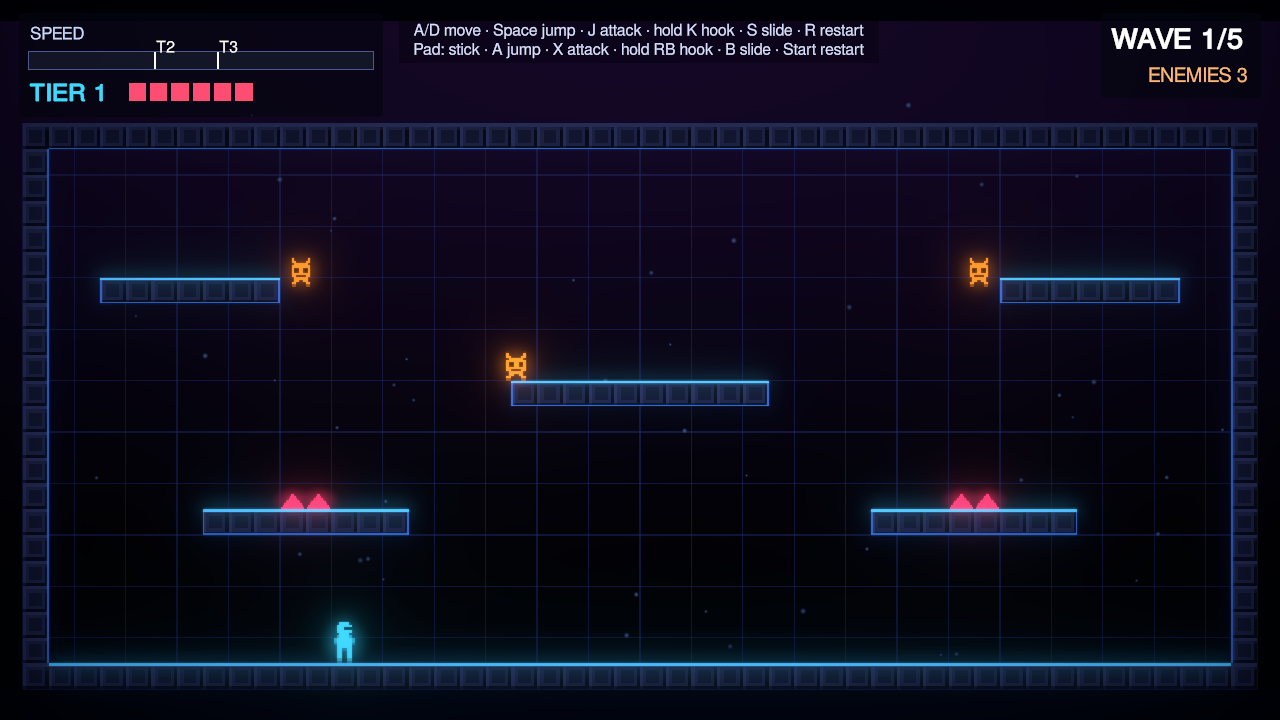
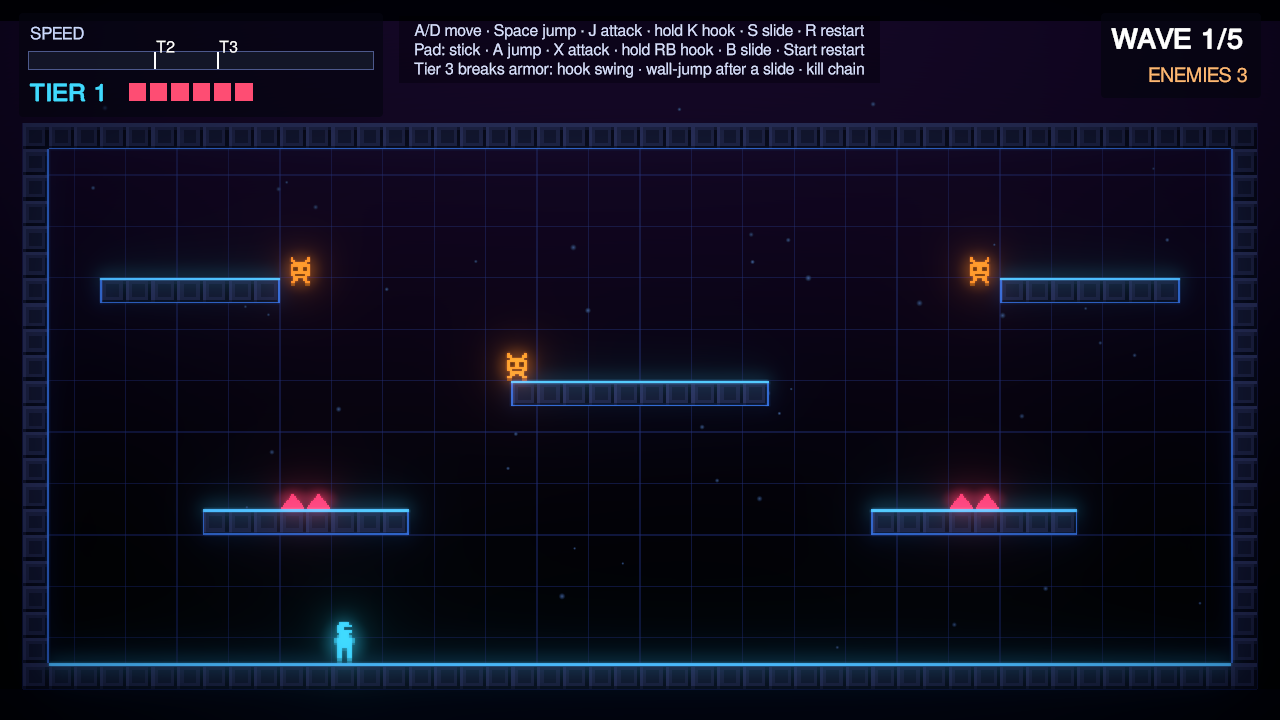
feat(game): show drones, brute charges and kill chains
Drone pixel art with a dive telegraph blink, brute charge shake and flash,
dazed wobble and red armor-down state, crash sparks and shake, drone
debris, a CHAIN xN counter, and a wave-1 hint on how to earn tier 3.
Capture tour adds wave-3 drone and wave-4 charge shots and keeps the
idle player alive while it fast-forwards waves.

Story: production/epics/redline/story-010..012

Changed region(s): [[0.3125, 0.0306, 0.6875, 0.1222], [0.75, 0.3667, 0.7812, 0.3972], [0.2188, 0.3667, 0.25, 0.3972]]

diff --git a/Assets/Scripts/Game/ActorRenderer.cs b/Assets/Scripts/Game/ActorRenderer.cs
@@ -22,6 +22,8 @@ namespace Redline.Game
         private static readonly Color BruteArmored = new Color(0.55f, 0.65f, 0.82f);
         private static readonly Color BruteBreakable = new Color(1f, 0.2f, 0.28f);
         private static readonly Color RopeCore = new Color(0.9f, 0.97f, 1f);
+        private static readonly Color DroneColor = new Color(0.78f, 0.45f, 1f);
+        private static readonly Color WindupColor = new Color(1f, 0.85f, 0.4f);
 
         private readonly Transform _root;
         private readonly SpriteRenderer _player;
@@ -174,29 +176,60 @@ namespace Redline.Game
         private void SyncEnemy(Enemy e, Vector2 feet, int tier, int index)
         {
             var view = _enemies[index];
-            bool grunt = e.Kind == EnemyKind.Grunt;
-            bool breakable = CombatRules.CanDamage(tier, e.MinTier);
-            view.sprite = grunt ? PixelArt.Grunt : PixelArt.Brute;
+            bool brute = e.Kind == EnemyKind.Brute;
+            bool breakable = brute && CombatRules.CanDamage(tier, e.ArmorTier);
+            view.sprite = e.Kind == EnemyKind.Grunt ? PixelArt.Grunt : brute ? PixelArt.Brute : PixelArt.Drone;
             view.flipX = e.Facing < 0;
 
-            Color c = grunt ? GruntColor : (breakable ? BruteBreakable : BruteArmored);
-            if (e.SinceHit < 0.08f) c = Color.white;
+            var c = EnemyColor(e, breakable);
             view.color = c;
 
-            float bob = grunt && e.Grounded ? Mathf.Abs(Mathf.Sin(_time * 12f + index)) * 0.08f : 0f;
+            float bob = e.Kind == EnemyKind.Grunt && e.Grounded ? Mathf.Abs(Mathf.Sin(_time * 12f + index)) * 0.08f : 0f;
             float pop = e.SinceHit < 0.12f ? 1.15f : 1f;
             float k = e.Height / view.sprite.bounds.size.y * pop;
             var t = view.transform;
             t.localScale = new Vector3(k * (1f + bob), k * (1f - bob), 1f);
-            t.localPosition = new Vector3(feet.x, feet.y + e.Height * pop * (1f - bob) * 0.5f, 0f);
+            var offset = EnemyOffset(e, index);
+            t.localPosition = new Vector3(feet.x + offset.x, feet.y + e.Height * pop * (1f - bob) * 0.5f + offset.y, 0f);
+            // A crashed brute wobbles, dazed.
+            t.localRotation = brute && e.Mode == BruteMode.Crashed
+                ? Quaternion.Euler(0f, 0f, Mathf.Sin(_time * 9f) * 10f)
+                : Quaternion.identity;
 
             var glow = _enemyGlows[index];
             var gc = c;
-            gc.a = grunt ? 0.12f : breakable ? 0.3f + 0.15f * Mathf.Sin(_time * 14f) : 0.1f;
+            gc.a = breakable ? 0.3f + 0.15f * Mathf.Sin(_time * 14f) : brute ? 0.1f : 0.14f;
             glow.color = gc;
-            float gs = e.Height * (breakable && !grunt ? 2.4f : 1.8f);
+            float gs = e.Height * (breakable ? 2.4f : 1.8f);
             glow.transform.localPosition = t.localPosition;
             glow.transform.localScale = new Vector3(gs, gs, 1f);
+        }
+
+        /// <summary>Base colour per kind and state, with flashes for hits and telegraphs.</summary>
+        private Color EnemyColor(Enemy e, bool breakable)
+        {
+            if (e.SinceHit < 0.08f) return Color.white;
+            bool blink = Mathf.Repeat(_time * 18f, 2f) < 1f;
+            switch (e.Kind)
+            {
+                case EnemyKind.Grunt:
+                    return GruntColor;
+                case EnemyKind.Drone:
+                    return e.DroneState == DroneMode.Windup && blink ? Color.white : DroneColor;
+                default:
+                    if (e.Mode == BruteMode.Windup) return blink ? WindupColor : BruteArmored;
+                    return breakable ? BruteBreakable : BruteArmored;
+            }
+        }
+
+        /// <summary>Shake while a brute telegraphs a charge; gentle hover sway for drones.</summary>
+        private Vector2 EnemyOffset(Enemy e, int index)
+        {
+            if (e.Kind == EnemyKind.Brute && e.Mode == BruteMode.Windup)
+                return new Vector2(Mathf.Sin(_time * 70f) * 0.07f, 0f);
+            if (e.Kind == EnemyKind.Drone && e.DroneState == DroneMode.Hover)
+                return new Vector2(0f, Mathf.Sin(_time * 4f + index) * 0.12f);
+            return Vector2.zero;
         }
     }
 }

diff --git a/Assets/Scripts/Game/RedlineCapture.cs b/Assets/Scripts/Game/RedlineCapture.cs
@@ -77,6 +77,20 @@ namespace Redline.Game
             yield return new WaitForSecondsRealtime(0.06f);
             yield return Shot("fx-kill.png");
 
+            // 3c. Wave 3: drones hover out of reach. 3d. Wave 4: a brute telegraphs a charge.
+            yield return ClearUntilWave(sim, 3);
+            yield return WaitForFight(sim, 2.5f);
+            yield return Shot("wave3-drones.png");
+            yield return ClearUntilWave(sim, 4);
+            yield return WaitForFight(sim, 0.5f);
+            float wait = 8f;
+            while (wait > 0f && !AnyBruteIn(sim, BruteMode.Windup))
+            {
+                wait -= Time.unscaledDeltaTime;
+                yield return null;
+            }
+            yield return Shot("wave4-charge-telegraph.png");
+
             // 4. Game over.
             sim.Player.Hp = 0;
             yield return new WaitForSecondsRealtime(0.5f);
@@ -87,6 +101,9 @@ namespace Redline.Game
             float guard = 120f;
             while (sim.State != SimState.Victory && guard > 0f)
             {
+                // Several fixed steps can run between frames; keep the idle player alive meanwhile.
+                if (sim.State == SimState.GameOver) sim.Restart();
+                sim.Player.InvulnTimer = 1f;
                 if (sim.State == SimState.Fighting)
                     foreach (var e in sim.Enemies) e.Hp = 0f;
                 guard -= Time.unscaledDeltaTime;
@@ -97,6 +114,26 @@ namespace Redline.Game
 
             Debug.Log("REDLINE_CAPTURE_DONE " + Directory);
             Application.Quit();
+        }
+
+        private static IEnumerator ClearUntilWave(RedlineSim sim, int wave)
+        {
+            float guard = 60f;
+            while (sim.CurrentWave < wave && guard > 0f)
+            {
+                sim.Player.InvulnTimer = 1f;
+                if (sim.State == SimState.Fighting)
+                    foreach (var e in sim.Enemies) e.Hp = 0f;
+                guard -= Time.unscaledDeltaTime;
+                yield return null;
+            }
+        }
+
+        private static bool AnyBruteIn(RedlineSim sim, BruteMode mode)
+        {
+            foreach (var e in sim.Enemies)
+                if (e.Alive && e.Kind == EnemyKind.Brute && e.Mode == mode) return true;
+            return false;
         }
 
         private static IEnumerator WaitForFight(RedlineSim sim, float extraSeconds)

diff --git a/Assets/Scripts/Game/RedlineGame.cs b/Assets/Scripts/Game/RedlineGame.cs
@@ -19,6 +19,8 @@ namespace Redline.Game
         private static readonly Color Background = new Color(0.01f, 0.01f, 0.04f);
         private static readonly Color GruntDebris = new Color(1f, 0.55f, 0.15f);
         private static readonly Color BruteDebris = new Color(1f, 0.2f, 0.28f);
+        private static readonly Color DroneDebris = new Color(0.78f, 0.45f, 1f);
+        private static readonly Color WindupColor = new Color(1f, 0.85f, 0.4f);
         private static readonly Color HurtColor = new Color(1f, 0.25f, 0.4f);
         private static readonly Color ClangColor = new Color(0.7f, 0.8f, 1f);
 
@@ -223,6 +225,8 @@ namespace Redline.Game
                     case SimEventType.HookAttach: _effects.Sparks(at, color, 8, 5f); break;
                     case SimEventType.WaveStart: _effects.Flash(0.08f); break;
                     case SimEventType.Victory: _effects.Flash(0.25f); break;
+                    case SimEventType.BruteWindup: _effects.Sparks(at, WindupColor, 6, 3f); break;
+                    case SimEventType.BruteCrash: OnBruteCrash(at); break;
                 }
             }
         }
@@ -235,12 +239,22 @@ namespace Redline.Game
 
         private void OnKill(Vector2 at, Color color, int tier)
         {
-            bool brute = KilledKindAt(at) == EnemyKind.Brute;
+            var kind = KilledKindAt(at);
+            bool brute = kind == EnemyKind.Brute;
+            var debris = brute ? BruteDebris : kind == EnemyKind.Drone ? DroneDebris : GruntDebris;
             _effects.Sparks(at, color, 10 + 6 * tier, 8f + 4f * tier);
-            _effects.Debris(at, brute ? BruteDebris : GruntDebris, brute ? 16 : 9, 7f + 2f * tier);
+            _effects.Debris(at, debris, brute ? 16 : 9, 7f + 2f * tier);
             _shake = Mathf.Max(_shake, 0.08f * tier + (brute ? 0.2f : 0f));
             _hitStop = Mathf.Max(_hitStop, 0.02f * tier + (brute ? 0.05f : 0f));
             if (tier == 3) _effects.Flash(brute ? 0.22f : 0.1f);
+        }
+
+        private void OnBruteCrash(Vector2 at)
+        {
+            _effects.Sparks(at, WindupColor, 18, 9f);
+            _effects.Dust(new Vector2(at.x, at.y - 1f), 8, 0f);
+            _shake = Mathf.Max(_shake, 0.35f);
+            _hitStop = Mathf.Max(_hitStop, 0.06f);
         }
 
         private void OnClang(Vector2 at)

diff --git a/Assets/Scripts/Game/RedlineHud.cs b/Assets/Scripts/Game/RedlineHud.cs
@@ -14,13 +14,15 @@ namespace Redline.Game
     {
         private const string ControlsText =
             "A/D move · Space jump · J attack · hold K hook · S slide · R restart\n" +
-            "Pad: stick · A jump · X attack · hold RB hook · B slide · Start restart";
+            "Pad: stick · A jump · X attack · hold RB hook · B slide · Start restart\n" +
+            "Tier 3 breaks armor: hook swing · wall-jump after a slide · kill chain";
 
         private RedlineGame _game;
         private PanelSettings _settings;
         private int _shownBannerWave = -1;
         private VisualElement _speedFill;
         private Label _tierLabel;
+        private Label _chainLabel;
         private Label _waveLabel;
         private Label _enemiesLabel;
         private Label _banner;
@@ -29,6 +31,7 @@ namespace Redline.Game
         private VisualElement[] _hpPips;
 
         private int _shownTier = -1;
+        private int _shownChain = -1;
         private int _shownHp = -1;
         private int _shownWave = -1;
         private int _shownEnemies = -1;
@@ -101,6 +104,11 @@ namespace Redline.Game
             hpRow.style.flexDirection = FlexDirection.Row;
             hpRow.style.marginLeft = 24;
             statusRow.Add(hpRow);
+
+            _chainLabel = MakeLabel("", 30, RedlineGame.TierColors[2]);
+            _chainLabel.style.unityFontStyleAndWeight = FontStyle.Bold;
+            _chainLabel.style.marginLeft = 20;
+            statusRow.Add(_chainLabel);
             _hpPips = new VisualElement[cfg.playerMaxHp];
             for (int i = 0; i < _hpPips.Length; i++)
             {
@@ -173,6 +181,13 @@ namespace Redline.Game
                 _speedFill.style.backgroundColor = c;
                 _tierLabel.text = tier == 3 ? "TIER 3  ·  BREAKS ARMOR" : "TIER " + tier;
                 _tierLabel.style.color = c;
+            }
+
+            int chain = p.Chain >= 2 ? p.Chain : 0;
+            if (chain != _shownChain)
+            {
+                _shownChain = chain;
+                _chainLabel.text = chain >= 2 ? "CHAIN ×" + chain : "";
             }
 
             if (p.Hp != _shownHp)

diff --git a/Assets/Scripts/Game/PixelArt.cs b/Assets/Scripts/Game/PixelArt.cs
@@ -21,6 +21,7 @@ namespace Redline.Game
         private static Sprite _playerSlide;
         private static Sprite _grunt;
         private static Sprite _brute;
+        private static Sprite _drone;
         private static Sprite _tile;
         private static Sprite _slash;
         private static Sprite _glow;
@@ -30,7 +31,7 @@ namespace Redline.Game
         [RuntimeInitializeOnLoadMethod(RuntimeInitializeLoadType.SubsystemRegistration)]
         private static void ResetStatics()
         {
-            _player = _playerSlide = _grunt = _brute = _tile = _slash = _glow = _gradient = null;
+            _player = _playerSlide = _grunt = _brute = _drone = _tile = _slash = _glow = _gradient = null;
         }
 
         /// <summary>Standing runner, facing right (visor on the right).</summary>
@@ -107,6 +108,19 @@ namespace Redline.Game
             ".MMWW...WWMM.",
             ".MMMM...MMMM.",
             "............."
+        }));
+
+        /// <summary>Flying drone: wings, a single dark eye band, two dangling claws.</summary>
+        public static Sprite Drone => _drone != null ? _drone : (_drone = FromPattern("RedlineDrone", new[]
+        {
+            "W........W",
+            ".WW....WW.",
+            "..WWWWWW..",
+            ".WWKKKKWW.",
+            "WWWKWWKWWW",
+            ".WWWWWWWW.",
+            "..W....W..",
+            "..M....M.."
         }));
 
         /// <summary>Bevelled terrain block: bright top-left edge, dark bottom-right edge.</summary>

diff --git a/production/qa/evidence/visual-polish-evidence.md b/production/qa/evidence/visual-polish-evidence.md
@@ -13,6 +13,9 @@
 | `gameover.png` | Player shattered into debris; GAME OVER banner | shatter on game over |
 | `victory.png` | VICTORY screen with the new look | — |
 
+| `wave3-drones.png` | Gameplay pass (story 012): purple drones heading for their hover points | drone readability |
+| `wave4-charge-telegraph.png` | Gameplay pass (story 011): brute flashing yellow while telegraphing a charge; second brute steel | charge telegraph |
+
 **Not visible in stills (verify in play)**: dust on jump/land/slide, squash and stretch, slash arc, glowing rope, red vignette pulse on damage, hit pop on enemies.
 
 **Regression check**: gameplay rules unchanged — 77/77 tests pass in Unity EditMode and `dotnet test tools/core-tests`.
